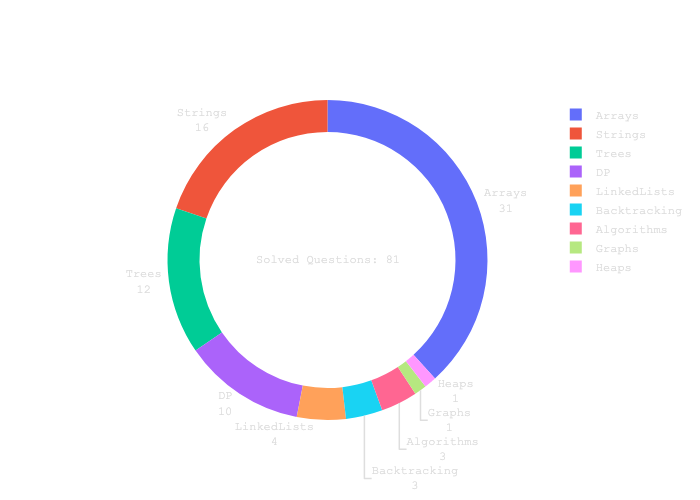
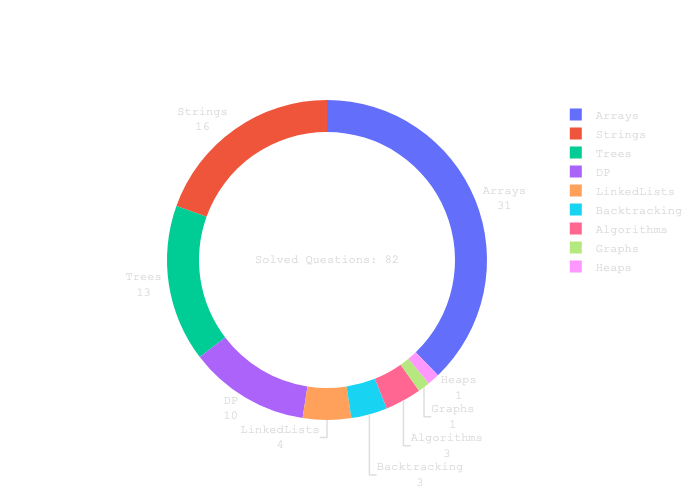
twoSum with bst inOrder

diff --git a/Trees/twoSumBST.py b/Trees/twoSumBST.py
@@ -1,0 +1,32 @@
+from typing import Optional
+from utils.TreeNode import TreeNode, generateBT
+
+
+def twoSumBST(root: Optional[TreeNode], k: int) -> int:
+    arr = []
+
+    def inOrder(node: Optional[TreeNode]):
+        nonlocal arr
+        if not node:
+            return
+        if node.left:
+            inOrder(node.left)
+        arr.append(node.val)
+        if node.right:
+            inOrder(node.right)
+
+    inOrder(root)
+    l, r = 0, len(arr) - 1
+
+    while l < r:
+        if arr[l] + arr[r] == k:
+            return True
+        if arr[l] + arr[r] < k:
+            l += 1
+        else:
+            r -= 1
+    return False
+
+
+print(twoSumBST(generateBT([5, 3, 6, 2, 4, None, 7]), 2))
+print(twoSumBST(generateBT([1]), 2))
